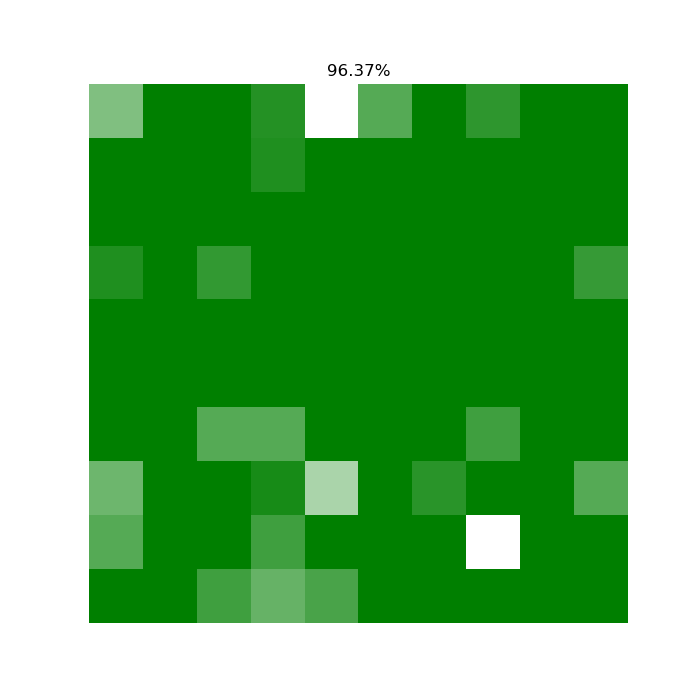
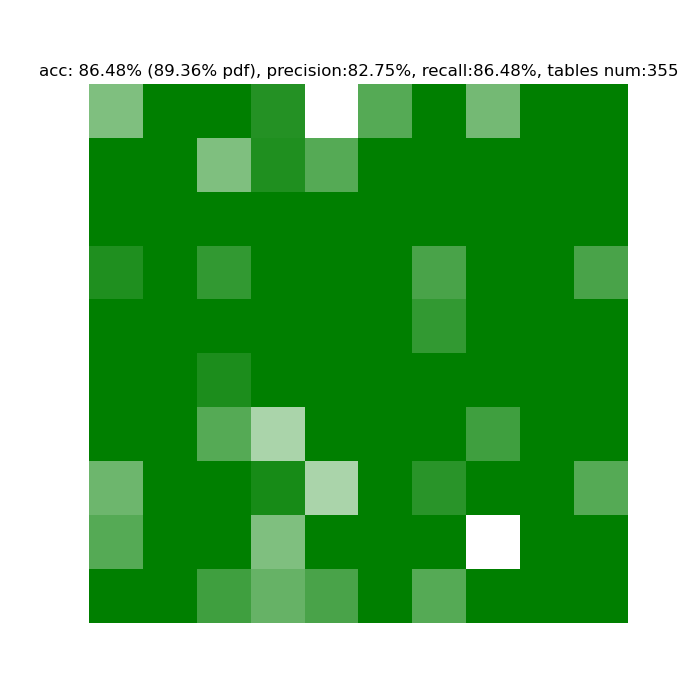
Added better precision in showing results for both methods

diff --git a/core/analysis/check_results_over_groundtruth.py b/core/analysis/check_results_over_groundtruth.py
@@ -18,45 +18,65 @@ def load_groundtruth(path:str):
     return gth
 
 
+def _csv_contains_a_key(fn: str, keys: list) -> str:
+    if not os.path.exists(fn):
+        logging.warning(f"Given csv file does not exist. Skipping {fn}")
+        return None
+    with open(fn, 'r') as file:
+        for l in file.readlines():
+            for k in keys:
+                if k in l:
+                    return k
+    return None
+
+
 def check_results(csv_folder:str, groundtruth:dict, split_char='-') ->(list, list):
-    res = []
-    res_percentage = []
+    gth = groundtruth.copy()
+    files_percentage_ok = []
     results = {}
     i = 1
-    for k,v in groundtruth.items():
+    for k,v in gth.items():
         results[k] = []
+    # Loads all output pdfs from a folder after tables extraction. Format '[PDF_NAME]_Table[table_index].csv'
     for file_tablex in os.listdir(csv_folder):
         if file_tablex.endswith(".csv"):
             f_orig = file_tablex.split(split_char)[0]+".pdf"
             if f_orig not in results: results[f_orig] = []
             results[f_orig].append(file_tablex)
+    # Find Precision
+    TP = 0
+    FP = 0
+    FN = 0
     for f_orig, tables_names in results.items():
         logging.info("{}: {}".format(i, f_orig))
         i += 1
-        found = 0
-        gth_tables = len(groundtruth[f_orig])
+        gth_tables = len(gth[f_orig])
+        this_TP = 0
+        this_FP = 0
         for table_filename in tables_names:
             try:
-                if f_orig not in groundtruth:
+                if f_orig not in gth:
                     logging.warning("File {} not in groundtruth table!".format(f_orig))
-                else:
-                    keys:list = [k for k in groundtruth[f_orig]]
-                    if gth_tables> 0:
-                        with open(os.path.join(csv_folder, table_filename), 'r') as file:
-                            for l in file.readlines():
-                                for k in keys:
-                                    if k in l:
-                                        keys.remove(k)
-                                        found += 1
-                                        break
+                    continue
+                if gth_tables > 0:
+                    fn = os.path.join(csv_folder, table_filename)
+                    key_found = _csv_contains_a_key(fn, gth[f_orig])
+                    if key_found is not None:
+                        this_TP += 1
+                        gth[f_orig].remove(key_found)
+                    else:
+                        this_FP += 1
             except Exception as e:
-                logging.warning("Unable to complete check on file {}: {}".format(file_tablex, str(e)))
-        res.append(found)
-        if gth_tables== 0:
-            res_percentage.append(100.0)
+                logging.warning("Unable to complete check on file {}: {}".format(f_orig, str(e)))
+        TP += this_TP
+        FP += this_FP
+        if gth_tables == 0:
+            files_percentage_ok.append(100.0)
         else:
-            res_percentage.append(float(found)/gth_tables*100)
-    return res, res_percentage
+            files_percentage_ok.append(float(this_TP)/gth_tables*100)
+            FN += gth_tables - this_TP
+    TN = 0 # if no table, ok but no other info.
+    return TP, TN, FP, FN, files_percentage_ok
 
 
 

diff --git a/core/analysis/results_plotter.py b/core/analysis/results_plotter.py
@@ -16,15 +16,22 @@ def show_cmap():
     plt.show()
 
 
-def plot_results(res, color_min=None, color_max=None, cmap=None, figsize=(7,7), save_to=None):
+def plot_results(TP, TN, FP, FN, files_percentage_ok, color_min=None, color_max=None, cmap=None, figsize=(7,7), save_to=None):
     if cmap is None: cmap = DEFAULT_CMAP
     fig = plt.figure(figsize=figsize)
-    a = np.array(res)
-    ns = np.ceil(np.sqrt(len(res))).astype(int)
+    a = np.array(files_percentage_ok)
+    ns = np.ceil(np.sqrt(len(files_percentage_ok))).astype(int)
     s = np.zeros(ns ** 2)
     s[:a.size] = a
     y = s.reshape(ns, ns)
-    plt.title("{:.2f}%".format(np.mean(y)))
+    tables_num = TP + FN
+    precision = (TP) / (TP+FP)
+    recall = (TP) / (TP+FN)
+    P = TP + FN
+    N = 0
+    acc = (TP+TN)/(P+N)
+    accuracy_over_pdfs = np.mean(y)
+    plt.title("acc: {:.2f}% ({:.2f}% pdf), precision:{:.2f}%, recall:{:.2f}%, tables num:{}".format(acc*100, accuracy_over_pdfs, precision*100, recall*100, tables_num))
     plt.axis('off')
     plt.imshow(y, cmap=cmap, vmin=color_min, vmax=color_max)
     plt.show()
@@ -32,7 +39,3 @@ def plot_results(res, color_min=None, color_max=None, cmap=None, figsize=(7,7), 
     if save_to is not None:
         fig.savefig(save_to)
 
-
-if __name__ == '__main__':
-    test_data = [1,3,4,5,1,24,25,245,45,2,11,31,214,3,24,124,1,1,2]
-    plot_results(test_data)

diff --git a/analysis/tab2know_tests/show_results_tab2know.py b/analysis/tab2know_tests/show_results_tab2know.py
@@ -7,5 +7,5 @@ from core.analysis.check_results_over_groundtruth import load_groundtruth, check
 if __name__ == '__main__':
     csv_folder="out_tab2know/csv"
     gth = load_groundtruth("../DATASET/GROUNDTRUTH_DATASET.csv")
-    res, res_percentage = check_results(csv_folder, gth, split_char='-')
-    plot_results(res_percentage, color_min=0, color_max=100, save_to="../results/tab2know_on_DATASET.png")
+    TP, TN, FP, FN, files_percentage_ok = check_results(csv_folder, gth, split_char='-')
+    plot_results(TP, TN, FP, FN, files_percentage_ok, color_min=0, color_max=100, save_to="../results/tab2know_on_DATASET.png")

diff --git a/analysis/pdf2info_tests/show_results_pdf2info.py b/analysis/pdf2info_tests/show_results_pdf2info.py
@@ -7,5 +7,5 @@ from core.analysis.check_results_over_groundtruth import load_groundtruth, check
 if __name__ == '__main__':
     csv_folder="csv_extracted"
     gth = load_groundtruth("../DATASET/GROUNDTRUTH_DATASET.csv")
-    res, res_percentage = check_results(csv_folder, gth, split_char='_')
-    plot_results(res_percentage, color_min=0, color_max=100, save_to="../results/pdf2info_on_DATASET.png")
+    TP, TN, FP, FN, files_percentage_ok = check_results(csv_folder, gth, split_char='_')
+    plot_results(TP, TN, FP, FN, files_percentage_ok, color_min=0, color_max=100, save_to="../results/pdf2info_on_DATASET.png")
